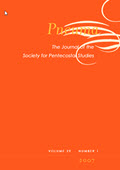
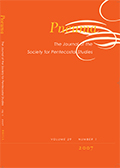
Upadate images to be portrait on home page - can be changed back if doesn't work

diff --git a/brands/default/home.html b/brands/default/home.html
@@ -206,23 +206,23 @@
                                 <div class="slider">
                                     <ul>
                                         <li>
-                                            <div class="thumbnail">
+                                            <div class="thumbnail spare-rib">
                                                 <a class="image" ng-href="{{viewerUrl}}/cuparchivePOL34_189S0032247400015217apdf">
-                                                    <img src="/images/home/cup/cup-image01.jpg" alt="Cover page for Polar Record, Volume 34 Issue 189 April 1998"/>
+                                                    <img src="/images/home/cup/cup-image01a.jpg" alt="Cover page for Polar Record, Volume 34 Issue 189 April 1998"/>
                                                 </a>
                                             </div>
                                         </li>
                                         <li>
-                                            <div class="thumbnail">
+                                            <div class="thumbnail spare-rib">
                                                 <a class="image" ng-href="{{viewerUrl}}/cuparchivePMU8_02S0261143000003299apdf">
-                                                    <img src="/images/home/cup/cup-image02.jpg" alt="Cover page for Popular Music, Volume 8 Issue 2 May 1989"/>
+                                                    <img src="/images/home/cup/cup-image02a.jpg" alt="Cover page for Popular Music, Volume 8 Issue 2 May 1989"/>
                                                 </a>
                                             </div>
                                         </li>
                                         <li>
-                                            <div class="thumbnail">
+                                            <div class="thumbnail spare-rib">
                                                 <a class="image" ng-href="{{viewerUrl}}/cuparchiveTRO5_02S0266467400003382apdf">
-                                                    <img src="/images/home/cup/cup-image03.jpg" alt="Cover page for Journal of Tropical Ecology, Volume 5 Issue 2 May 1989"/>
+                                                    <img src="/images/home/cup/cup-image03a.jpg" alt="Cover page for Journal of Tropical Ecology, Volume 5 Issue 2 May 1989"/>
                                                 </a>
                                             </div>
                                         </li>
@@ -246,23 +246,23 @@
                                 <div class="slider">
                                     <ul>
                                         <li>
-                                            <div class="thumbnail">
+                                            <div class="thumbnail spare-rib">
                                                 <a class="image" ng-href="{{viewerUrl}}/ice2007-08-28PDFICIEN19981264ICIEN_199830827ICIEN_1998_30827PDF">
-                                                    <img src="/images/home/ice/ice-image01.jpg" alt="Partial image of page 185, Proceedings of the ICE - Civil Engineering, Volume 126 Issue 4 November 1998"/>
+                                                    <img src="/images/home/ice/ice-image01a.jpg" alt="Partial image of page 185, Proceedings of the ICE - Civil Engineering, Volume 126 Issue 4 November 1998"/>
                                                 </a>
                                             </div>
                                         </li>
                                         <li>
-                                            <div class="thumbnail">
+                                            <div class="thumbnail spare-rib">
                                                 <a class="image" ng-href="{{viewerUrl}}/ice2007-08-28PDFICIEN20001383ICIEN_200032648ICIEN_2000_32648PDF">
-                                                    <img src="/images/home/ice/ice-image02.jpg" alt="Image from page 131, Proceedings of the ICE - Civil Engineering, Volume 138 Issue 3 August 2000"/>
+                                                    <img src="/images/home/ice/ice-image02a.jpg" alt="Image from page 131, Proceedings of the ICE - Civil Engineering, Volume 138 Issue 3 August 2000"/>
                                                 </a>
                                             </div>
                                         </li>
                                         <li>
-                                            <div class="thumbnail">
+                                            <div class="thumbnail spare-rib">
                                                 <a class="image" ng-href="{{viewerUrl}}/ice2007-08-28PDFIWTME19991363IWTME_199931745IWTME_1999_31745PDF">
-                                                    <img src="/images/home/ice/ice-image03.jpg" alt="Image from page 124, Proceedings of the ICE - Water Maritime and Energy, Volume 136 Issue 3 September 1999"/>
+                                                    <img src="/images/home/ice/ice-image03a.jpg" alt="Image from page 124, Proceedings of the ICE - Water Maritime and Energy, Volume 136 Issue 3 September 1999"/>
                                                 </a>
                                             </div>
                                         </li>
@@ -282,23 +282,23 @@
                                 <div class="slider">
                                     <ul>
                                         <li>
-                                            <div class="thumbnail">
+                                            <div class="thumbnail spare-rib">
                                                 <a class="image" ng-href="{{viewerUrl}}/iop1874-19980031-9120192308pev19i2p70pdf">
-                                                    <img src="/images/home/iop/iop-image01.jpg" alt="Image from page 72, Physics Education, Volume 19 Issue 2 March 1984"/>
+                                                    <img src="/images/home/iop/iop-image01a.jpg" alt="Image from page 72, Physics Education, Volume 19 Issue 2 March 1984"/>
                                                 </a>
                                             </div>
                                         </li>
                                         <li>
-                                            <div class="thumbnail">
+                                            <div class="thumbnail spare-rib">
                                                 <a class="image" ng-href="{{viewerUrl}}/iop1874-19980957-448434003na920403pdf">
-                                                    <img src="/images/home/iop/iop-image02.jpg" alt="Image from page 167, Nanotechnology, Volume 3 Issue 4 October 1992"/>
+                                                    <img src="/images/home/iop/iop-image02a.jpg" alt="Image from page 167, Nanotechnology, Volume 3 Issue 4 October 1992"/>
                                                 </a>
                                             </div>
                                         </li>
                                         <li>
-                                            <div class="thumbnail">
+                                            <div class="thumbnail spare-rib">
                                                 <a class="image" ng-href="{{viewerUrl}}/iop1874-19981355-511174013qs950413pdf">
-                                                    <img src="/images/home/iop/iop-image03.jpg" alt="Image from page 577, Quantum and Semiclassical Optics: Journal of the European Optical Society Part B, Volume 7 Issue 4 august 1995"/>
+                                                    <img src="/images/home/iop/iop-image03a.jpg" alt="Image from page 577, Quantum and Semiclassical Optics: Journal of the European Optical Society Part B, Volume 7 Issue 4 august 1995"/>
                                                 </a>
                                             </div>
                                         </li>
@@ -321,23 +321,23 @@
                                 <div class="slider">
                                     <ul>
                                         <li>
-                                            <div class="thumbnail">
+                                            <div class="thumbnail spare-rib">
                                                 <a class="image" ng-href="{{viewerUrl}}/proquestpdf31883188-1965-029-03-00000Cpdf">
-                                                    <img src="/images/home/pao/pao-image01.jpg" alt="Cover page for Negro History Bulletin, Volume 29 Issue 3 1965"/>
+                                                    <img src="/images/home/pao/pao-image01a.jpg" alt="Cover page for Negro History Bulletin, Volume 29 Issue 3 1965"/>
                                                 </a>
                                             </div>
                                         </li>
                                         <li>
-                                            <div class="thumbnail">
+                                            <div class="thumbnail spare-rib">
                                                 <a class="image" ng-href="{{viewerUrl}}/proquestpdf87308730-1916-004-03-000058pdf">
-                                                    <img src="/images/home/pao/pao-image02.jpg" alt="Cover page from THE EUROPEAN WAR AS SEEN BY CARTOONISTS: 28 Cartoons, All Nations, Volume 4 Issue 3 1916"/>
+                                                    <img src="/images/home/pao/pao-image02a.jpg" alt="Cover page from THE EUROPEAN WAR AS SEEN BY CARTOONISTS: 28 Cartoons, All Nations, Volume 4 Issue 3 1916"/>
                                                 </a>
                                             </div>
                                         </li>
                                         <li>
-                                            <div class="thumbnail">
+                                            <div class="thumbnail spare-rib">
                                                 <a class="image" ng-href="{{viewerUrl}}/proquestpdf61256125-1989-036-03-00000Apdf">
-                                                    <img src="/images/home/pao/pao-image03.jpg" alt="Cover page for Japan Quarterly, Volume 36 Issue 3 July-September 1989"/>
+                                                    <img src="/images/home/pao/pao-image03a.jpg" alt="Cover page for Japan Quarterly, Volume 36 Issue 3 July-September 1989"/>
                                                 </a>
                                             </div>
                                         </li>
@@ -357,23 +357,23 @@
                                 <div class="slider">
                                     <ul>
                                         <li>
-                                            <div class="thumbnail">
+                                            <div class="thumbnail spare-rib">
                                                 <a class="image" ng-href="{{viewerUrl}}/oupjournalsalcalcalcalc_18_4pdf18-4-392-spdf">
-                                                    <img src="/images/home/oup/oup-image01.jpg" alt="Cover page for Alcohol and Alcoholism, Volume 18 Issue 4 1983"/>
+                                                    <img src="/images/home/oup/oup-image01a.jpg" alt="Cover page for Alcohol and Alcoholism, Volume 18 Issue 4 1983"/>
                                                 </a>
                                             </div>
                                         </li>
                                         <li>
-                                            <div class="thumbnail">
+                                            <div class="thumbnail spare-rib">
                                                 <a class="image" ng-href="{{viewerUrl}}/oupjournalscrimincrimin_4_5pdf4-5-417pdf">
-                                                    <img src="/images/home/oup/oup-image02.jpg" alt="Page 417 from British Journal of Criminology, Volume 4 Issue 5 July 1964"/>
+                                                    <img src="/images/home/oup/oup-image02a.jpg" alt="Page 417 from British Journal of Criminology, Volume 4 Issue 5 July 1964"/>
                                                 </a>
                                             </div>
                                         </li>
                                         <li>
-                                            <div class="thumbnail">
+                                            <div class="thumbnail spare-rib">
                                                 <a class="image" ng-href="{{viewerUrl}}/oupjournalsrevesjrevesj_os-XIX_73pdfos-XIX-73-1pdf">
-                                                    <img src="/images/home/oup/oup-image03.jpg" alt="Cover page for The Review of English Studies, Volume 19 Issue 73 January 1943"/>
+                                                    <img src="/images/home/oup/oup-image03a.jpg" alt="Cover page for The Review of English Studies, Volume 19 Issue 73 January 1943"/>
                                                 </a>
                                             </div>
                                         </li>
@@ -396,23 +396,23 @@
                                 <div class="slider">
                                     <ul>
                                         <li>
-                                            <div class="thumbnail">
+                                            <div class="thumbnail spare-rib">
                                                 <a class="image" ng-href="{{viewerUrl}}/rsc20132005csb514095cpdf">
-                                                    <img src="/images/home/rsc/rsc-image01.jpg" alt="Cover page for Chemical Society Reviews, Volume 34 Issue 11 October 2005"/>
+                                                    <img src="/images/home/rsc/rsc-image01a.jpg" alt="Cover page for Chemical Society Reviews, Volume 34 Issue 11 October 2005"/>
                                                 </a>
                                             </div>
                                         </li>
                                         <li>
-                                            <div class="thumbnail">
+                                            <div class="thumbnail spare-rib">
                                                 <a class="image" ng-href="{{viewerUrl}}/rsc20071841-2004PDFFD1991FD99192FX001pdf">
-                                                    <img src="/images/home/rsc/rsc-image02.jpg" alt="Cover page for Faraday Discussions, Volume 92 1991"/>
+                                                    <img src="/images/home/rsc/rsc-image02a.jpg" alt="Cover page for Faraday Discussions, Volume 92 1991"/>
                                                 </a>
                                             </div>
                                         </li>
                                         <li>
-                                            <div class="thumbnail">
+                                            <div class="thumbnail spare-rib">
                                                 <a class="image" ng-href="{{viewerUrl}}/rsc20132007anb705776hpdf">
-                                                    <img src="/images/home/rsc/rsc-image03.jpg" alt="Cover page for The Analyst, Volume 132 Issue 5 April 2007"/>
+                                                    <img src="/images/home/rsc/rsc-image03a.jpg" alt="Cover page for The Analyst, Volume 132 Issue 5 April 2007"/>
                                                 </a>
                                             </div>
                                         </li>
@@ -432,23 +432,23 @@
                                 <div class="slider">
                                     <ul>
                                         <li>
-                                            <div class="thumbnail">
+                                            <div class="thumbnail spare-rib">
                                                 <a class="image" ng-href="{{viewerUrl}}/tfrsgj19_rsgj19v010i02_20110830173140_509443rsgj19v010i021470254940855457314702549408554573pdf">
-                                                    <img src="/images/home/tf/tf-image01.jpg" alt="Page 57 from the Scottish Geographical Magazine, Volume 10 Issue 2 February 1894"/>
+                                                    <img src="/images/home/tf/tf-image01a.jpg" alt="Page 57 from the Scottish Geographical Magazine, Volume 10 Issue 2 February 1894"/>
                                                 </a>
                                             </div>
                                         </li>
                                         <li>
-                                            <div class="thumbnail">
+                                            <div class="thumbnail spare-rib">
                                                 <a class="image" ng-href="{{viewerUrl}}/tfshou19_shou19v003i04_20110830174438_509841shou19v003i040281573860873010502815738608730105pdf">
-                                                    <img src="/images/home/tf/tf-image02.jpg" alt="Cover page for Scandinavian Housing and Planning Research, Volume 3 Issue 4 1986"/>
+                                                    <img src="/images/home/tf/tf-image02a.jpg" alt="Cover page for Scandinavian Housing and Planning Research, Volume 3 Issue 4 1986"/>
                                                 </a>
                                             </div>
                                         </li>
                                         <li>
-                                            <div class="thumbnail">
+                                            <div class="thumbnail spare-rib">
                                                 <a class="image" ng-href="{{viewerUrl}}/tfcjut20_cjut20v001i01_20110830163212_507904cjut20v001i011063073920872445510630739208724455pdf">
-                                                    <img src="/images/home/tf/tf-image03.jpg" alt="Cover page for Journal of Urban Technology, Volume 1 Issue 1 Fall 1992"/>
+                                                    <img src="/images/home/tf/tf-image03a.jpg" alt="Cover page for Journal of Urban Technology, Volume 1 Issue 1 Fall 1992"/>
                                                 </a>
                                             </div>
                                         </li>
